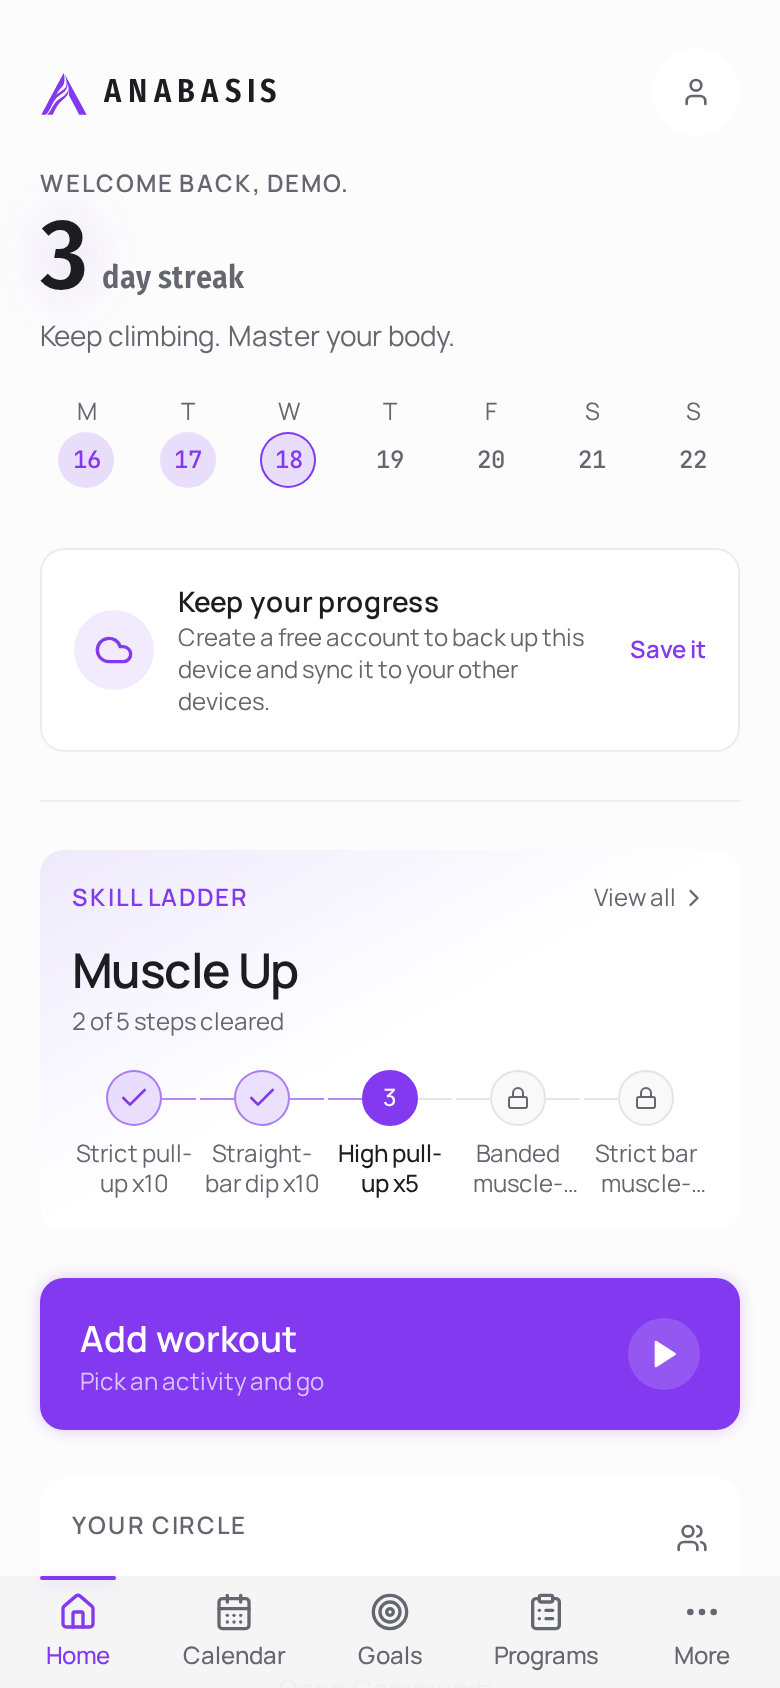
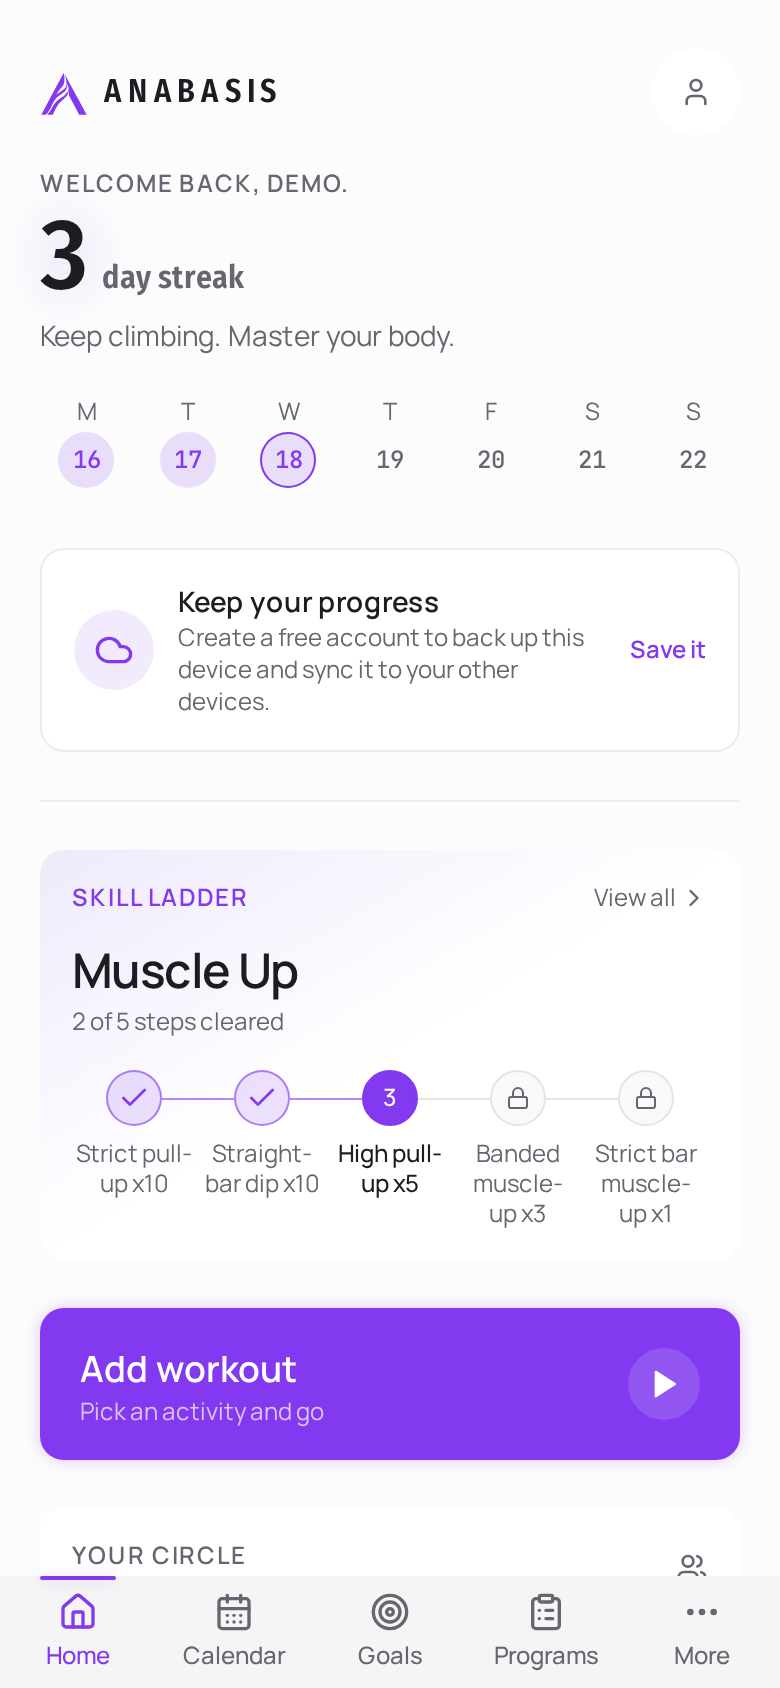
feat(ui): distinct summit badges and readable skill ladder rail

Changed region(s): [[0.0308, 0.7085, 0.9538, 0.8626], [0.0923, 0.8934, 0.3077, 0.9242], [0.8615, 0.8934, 0.9231, 0.955]]

diff --git a/src/features/dashboard/components/SkillLadderCard.tsx b/src/features/dashboard/components/SkillLadderCard.tsx
@@ -1,9 +1,17 @@
+import { useEffect, useRef, useState } from 'react';
+import type { KeyboardEvent } from 'react';
 import { Link } from 'react-router-dom';
 import { useTranslation } from 'react-i18next';
 import { useLiveQuery } from 'dexie-react-hooks';
 import { Check, ChevronRight, Lock } from 'lucide-react';
 import { getActiveLadder } from '@/lib/db/queries';
 import { cn } from '@/lib/utils';
+
+const EDGE_FADE = '1.25rem';
+
+function scrollBehavior(): ScrollBehavior {
+  return window.matchMedia?.('(prefers-reduced-motion: reduce)').matches ? 'auto' : 'smooth';
+}
 
 /**
  * Το hero του dashboard: η σκάλα του skill που δουλεύεις τώρα.
@@ -19,12 +27,77 @@ import { cn } from '@/lib/utils';
 export function SkillLadderCard() {
   const { t } = useTranslation();
   const ladder = useLiveQuery(() => getActiveLadder(), [], null);
+  const railRef = useRef<HTMLOListElement>(null);
+  const currentRef = useRef<HTMLLIElement>(null);
+  const [edges, setEdges] = useState({ left: false, right: false });
+  const currentId = ladder?.steps.find((s) => s.state === 'current')?.id ?? null;
+
+  // Το τρέχον σκαλί μένει στο κέντρο του rail όταν δεν χωράνε όλα.
+  useEffect(() => {
+    const rail = railRef.current;
+    const item = currentRef.current;
+    if (!rail || !item || rail.scrollWidth <= rail.clientWidth + 1) return;
+    const railRect = rail.getBoundingClientRect();
+    const itemRect = item.getBoundingClientRect();
+    const left =
+      rail.scrollLeft + itemRect.left - railRect.left - (rail.clientWidth - itemRect.width) / 2;
+    const max = rail.scrollWidth - rail.clientWidth;
+    rail.scrollTo({
+      left: Math.min(max, Math.max(0, left)),
+      behavior: scrollBehavior(),
+    });
+  }, [currentId]);
+
+  useEffect(() => {
+    const rail = railRef.current;
+    if (!rail) return;
+    const update = () => {
+      const max = rail.scrollWidth - rail.clientWidth;
+      const left = rail.scrollLeft > 2;
+      const right = max > 2 && rail.scrollLeft < max - 2;
+      setEdges((prev) =>
+        prev.left === left && prev.right === right ? prev : { left, right },
+      );
+    };
+    update();
+    rail.addEventListener('scroll', update, { passive: true });
+    const observer =
+      typeof ResizeObserver === 'function' ? new ResizeObserver(update) : null;
+    observer?.observe(rail);
+    window.addEventListener('resize', update);
+    return () => {
+      rail.removeEventListener('scroll', update);
+      observer?.disconnect();
+      window.removeEventListener('resize', update);
+    };
+  }, [ladder?.skillId, ladder?.steps.length]);
+
+  const maskImage =
+    edges.left && edges.right
+      ? `linear-gradient(to right, transparent 0, #000 ${EDGE_FADE}, #000 calc(100% - ${EDGE_FADE}), transparent 100%)`
+      : edges.right
+        ? `linear-gradient(to right, #000 0, #000 calc(100% - ${EDGE_FADE}), transparent 100%)`
+        : edges.left
+          ? `linear-gradient(to right, transparent 0, #000 ${EDGE_FADE}, #000 100%)`
+          : undefined;
 
   if (!ladder) return null;
+
+  const onKeyDown = (event: KeyboardEvent<HTMLAnchorElement>) => {
+    const rail = railRef.current;
+    if (!rail || rail.scrollWidth <= rail.clientWidth + 1) return;
+    if (event.key !== 'ArrowLeft' && event.key !== 'ArrowRight') return;
+    event.preventDefault();
+    rail.scrollBy({
+      left: (event.key === 'ArrowLeft' ? -1 : 1) * Math.max(72, rail.clientWidth * 0.6),
+      behavior: scrollBehavior(),
+    });
+  };
 
   return (
     <Link
       to={`/skills/${ladder.skillId}`}
+      onKeyDown={onKeyDown}
       className="block overflow-hidden rounded-xl bg-gradient-to-br from-primary/10 via-card to-card p-4 ring-offset-background transition-all duration-150 hover:via-elevated hover:to-elevated active:scale-[0.99] focus-visible:outline-hidden focus-visible:ring-2 focus-visible:ring-ring focus-visible:ring-offset-2"
     >
       <div className="mb-3 flex items-center justify-between gap-2">
@@ -42,12 +115,22 @@ export function SkillLadderCard() {
         {t('dashboard.ladderProgress', { done: ladder.done, total: ladder.total })}
       </p>
 
-      {/* Οριζόντια σκάλα: κουκκίδα ανά βήμα, γραμμή σύνδεσης, ετικέτα κάτω.
-          `basis-0` + `min-w-0`: τα βήματα μοιράζονται ΙΣΑ το πλάτος και
-          συρρικνώνονται — με min-width το 5ο βήμα κοβόταν στα 390px. */}
-      <ol className="mt-4 flex gap-0.5">
+      {/* Στενό: οριζόντιο snap rail με ελάχιστο πλάτος ανά σκαλί· ≥sm μοιράζεται
+          ίσα όπως πριν. Οι γραμμές μένουν μέσα σε κάθε σκαλί, χωρίς κενό. */}
+      <ol
+        ref={railRef}
+        className={cn(
+          'mt-4 flex snap-x snap-mandatory gap-0 overflow-x-auto overscroll-x-contain',
+          '[scrollbar-width:none] [&::-webkit-scrollbar]:hidden sm:gap-0.5 sm:snap-none sm:overflow-visible',
+        )}
+        style={{ maskImage, WebkitMaskImage: maskImage }}
+      >
         {ladder.steps.map((s, i) => (
-          <li key={s.id} className="flex min-w-0 flex-1 basis-0 flex-col items-center gap-1.5">
+          <li
+            key={s.id}
+            ref={s.state === 'current' ? currentRef : undefined}
+            className="flex min-w-[4rem] flex-1 basis-0 snap-center flex-col items-center gap-1.5 sm:min-w-0"
+          >
             <div className="flex w-full items-center">
               {/* γραμμή προς τα αριστερά */}
               <span
@@ -86,7 +169,7 @@ export function SkillLadderCard() {
             </div>
             <span
               className={cn(
-                'line-clamp-2 w-full text-balance px-0.5 text-center text-xs leading-tight',
+                'w-full break-words px-0.5 text-center text-xs leading-tight text-balance',
                 s.state === 'current' ? 'font-medium text-foreground' : 'text-muted-foreground',
               )}
             >

diff --git a/src/features/achievements/AchievementsPage.tsx b/src/features/achievements/AchievementsPage.tsx
@@ -5,6 +5,7 @@ import { ArrowRight, LineChart, Lock, Sparkles, Users } from 'lucide-react';
 import { getGamificationInput } from '@/lib/db/queries';
 import { useCountUp } from '@/hooks/useCountUp';
 import { Logo } from '@/components/Logo';
+import { cn } from '@/lib/utils';
 import {
   levelProgress,
   badgeStates,
@@ -12,6 +13,7 @@ import {
   hasActivity,
   type GamificationInput,
 } from '@/lib/gamification';
+import { BADGE_VISUALS, FALLBACK_BADGE_VISUAL } from './badgeIcons';
 
 const RING_R = 52;
 const RING_CIRC = 2 * Math.PI * RING_R;
@@ -147,26 +149,33 @@ function Badges({ data }: { data: GamificationInput }) {
         {t('gami.badges')}
       </p>
       <div className="grid grid-cols-2 gap-3 sm:grid-cols-3">
-        {badges.map((b) => (
-          <div
-            key={b.id}
-            className={`flex flex-col items-center rounded-xl bg-card p-4 text-center ${
-              b.isEarned ? '' : 'opacity-55'
-            }`}
-          >
-            {b.isEarned ? (
-              <Logo summit className="h-9 w-9 text-[hsl(var(--gold))]" />
-            ) : (
-              <span className="flex h-9 w-9 items-center justify-center rounded-full bg-elevated text-muted-foreground">
-                <Lock className="h-4 w-4" />
+        {badges.map((b) => {
+          const visual = BADGE_VISUALS[b.id] ?? FALLBACK_BADGE_VISUAL;
+          const Icon = visual.Icon;
+          return (
+            <div
+              key={b.id}
+              className={cn(
+                'flex flex-col items-center rounded-xl bg-card p-4 text-center',
+                !b.isEarned && 'opacity-55',
+              )}
+            >
+              {b.isEarned ? (
+                <span className={cn('grid h-10 w-10 place-items-center rounded-full', visual.tone)}>
+                  <Icon className="h-5 w-5" aria-hidden />
+                </span>
+              ) : (
+                <span className="flex h-10 w-10 items-center justify-center rounded-full bg-elevated text-muted-foreground">
+                  <Lock className="h-4 w-4" aria-hidden />
+                </span>
+              )}
+              <span className="mt-2 text-sm font-medium">{t(b.nameKey)}</span>
+              <span className="mt-0.5 text-xs leading-tight text-muted-foreground">
+                {t(b.descKey)}
               </span>
-            )}
-            <span className="mt-2 text-sm font-medium">{t(b.nameKey)}</span>
-            <span className="mt-0.5 text-xs leading-tight text-muted-foreground">
-              {t(b.descKey)}
-            </span>
-          </div>
-        ))}
+            </div>
+          );
+        })}
       </div>
     </section>
   );

diff --git a/src/features/achievements/PublicProfilePage.tsx b/src/features/achievements/PublicProfilePage.tsx
@@ -1,11 +1,12 @@
 import { useEffect, useState } from 'react';
 import { Link, useParams } from 'react-router-dom';
 import { useTranslation } from 'react-i18next';
-import { Flame, Award, Lock, UserPlus, Check, Send, X } from 'lucide-react';
+import { Flame, Lock, UserPlus, Check, Send, X } from 'lucide-react';
 import { api, ApiError } from '@/lib/api/client';
 import { useAuth } from '@/lib/api/auth';
 import type { FriendshipState, PublicProfile } from '@/lib/api/types';
 import { levelProgress, BADGES } from '@/lib/gamification';
+import { BADGE_VISUALS, FALLBACK_BADGE_VISUAL } from './badgeIcons';
 import { Logo } from '@/components/Logo';
 import { Button } from '@/components/ui/button';
 
@@ -309,6 +310,8 @@ function ProfileView({ profile }: { profile: PublicProfile }) {
         <div className="grid grid-cols-2 gap-3 sm:grid-cols-3">
           {BADGES.map((b) => {
             const has = earned.includes(b.id);
+            const visual = BADGE_VISUALS[b.id] ?? FALLBACK_BADGE_VISUAL;
+            const Icon = visual.Icon;
             return (
               <div
                 key={b.id}
@@ -317,10 +320,14 @@ function ProfileView({ profile }: { profile: PublicProfile }) {
                 }`}
               >
                 {has ? (
-                  <Award className="h-9 w-9 text-[hsl(var(--gold))]" />
+                  <span
+                    className={`grid h-9 w-9 place-items-center rounded-full ${visual.tone}`}
+                  >
+                    <Icon className="h-5 w-5" aria-hidden />
+                  </span>
                 ) : (
                   <span className="flex h-9 w-9 items-center justify-center rounded-full bg-elevated text-muted-foreground">
-                    <Lock className="h-4 w-4" />
+                    <Lock className="h-4 w-4" aria-hidden />
                   </span>
                 )}
                 <span className="mt-2 text-sm font-medium">{t(b.nameKey)}</span>

diff --git a/src/features/achievements/badgeIcons.ts b/src/features/achievements/badgeIcons.ts
@@ -1,0 +1,32 @@
+import {
+  Award,
+  CalendarCheck,
+  Dumbbell,
+  Flame,
+  Gem,
+  Medal,
+  Mountain,
+  Trophy,
+  type LucideIcon,
+} from 'lucide-react';
+
+export interface BadgeVisual {
+  Icon: LucideIcon;
+  /** Tinted medallion background + icon color. */
+  tone: string;
+}
+
+export const BADGE_VISUALS: Record<string, BadgeVisual> = {
+  'first-ascent': { Icon: Mountain, tone: 'bg-primary/10 text-primary' },
+  'week-streak': { Icon: CalendarCheck, tone: 'bg-category-pull/12 text-category-pull' },
+  'ten-sessions': { Icon: Dumbbell, tone: 'bg-category-push/12 text-category-push' },
+  'record-breaker': { Icon: Trophy, tone: 'bg-gold/10 text-gold' },
+  'first-skill': { Icon: Medal, tone: 'bg-category-legs/12 text-category-legs' },
+  century: { Icon: Gem, tone: 'bg-category-mixed/12 text-category-mixed' },
+  'month-streak': { Icon: Flame, tone: 'bg-category-core/12 text-category-core' },
+};
+
+export const FALLBACK_BADGE_VISUAL: BadgeVisual = {
+  Icon: Award,
+  tone: 'bg-elevated text-muted-foreground',
+};

diff --git a/src/features/achievements/PublicProfilePage.test.tsx b/src/features/achievements/PublicProfilePage.test.tsx
@@ -78,6 +78,24 @@ describe('PublicProfilePage', () => {
     expect(screen.queryByRole('button', { name: 'Add friend' })).toBeNull();
   });
 
+  it('δείχνει διακριτό icon/tint για κάθε earned badge', async () => {
+    vi.stubGlobal(
+      'fetch',
+      vi.fn(async () =>
+        jsonResponse({
+          ...profile,
+          badges: JSON.stringify(['first-ascent', 'week-streak']),
+        }),
+      ),
+    );
+    const { container } = renderPage();
+
+    expect(await screen.findByText('Bob')).toBeTruthy();
+    expect(container.querySelector('svg.lucide-mountain')).toBeTruthy();
+    expect(container.querySelector('svg.lucide-calendar-check')).toBeTruthy();
+    expect(container.querySelector('svg.lucide-award')).toBeNull();
+  });
+
   it('logged-in μπορεί να στείλει αίτημα από το δημόσιο προφίλ', async () => {
     globalThis.localStorage.setItem(
       'anabasis.auth',

diff --git a/src/features/achievements/badgeIcons.test.ts b/src/features/achievements/badgeIcons.test.ts
@@ -1,0 +1,21 @@
+import { describe, expect, it } from 'vitest';
+import { BADGES } from '@/lib/gamification';
+import { BADGE_VISUALS, FALLBACK_BADGE_VISUAL } from './badgeIcons';
+
+describe('badge visuals', () => {
+  it('maps every badge to a distinct icon and tint', () => {
+    const mapped = BADGES.map((b) => BADGE_VISUALS[b.id]);
+    expect(mapped.every(Boolean)).toBe(true);
+    expect(new Set(mapped.map((v) => v!.Icon)).size).toBe(BADGES.length);
+    expect(new Set(mapped.map((v) => v!.tone)).size).toBe(BADGES.length);
+  });
+
+  it('has no stale badge ids and tints every medallion', () => {
+    expect(Object.keys(BADGE_VISUALS).sort()).toEqual(BADGES.map((b) => b.id).sort());
+    for (const visual of Object.values(BADGE_VISUALS)) {
+      expect(visual).not.toBe(FALLBACK_BADGE_VISUAL);
+      expect(visual.tone).toMatch(/\btext-/);
+      expect(visual.tone).toMatch(/\bbg-/);
+    }
+  });
+});
